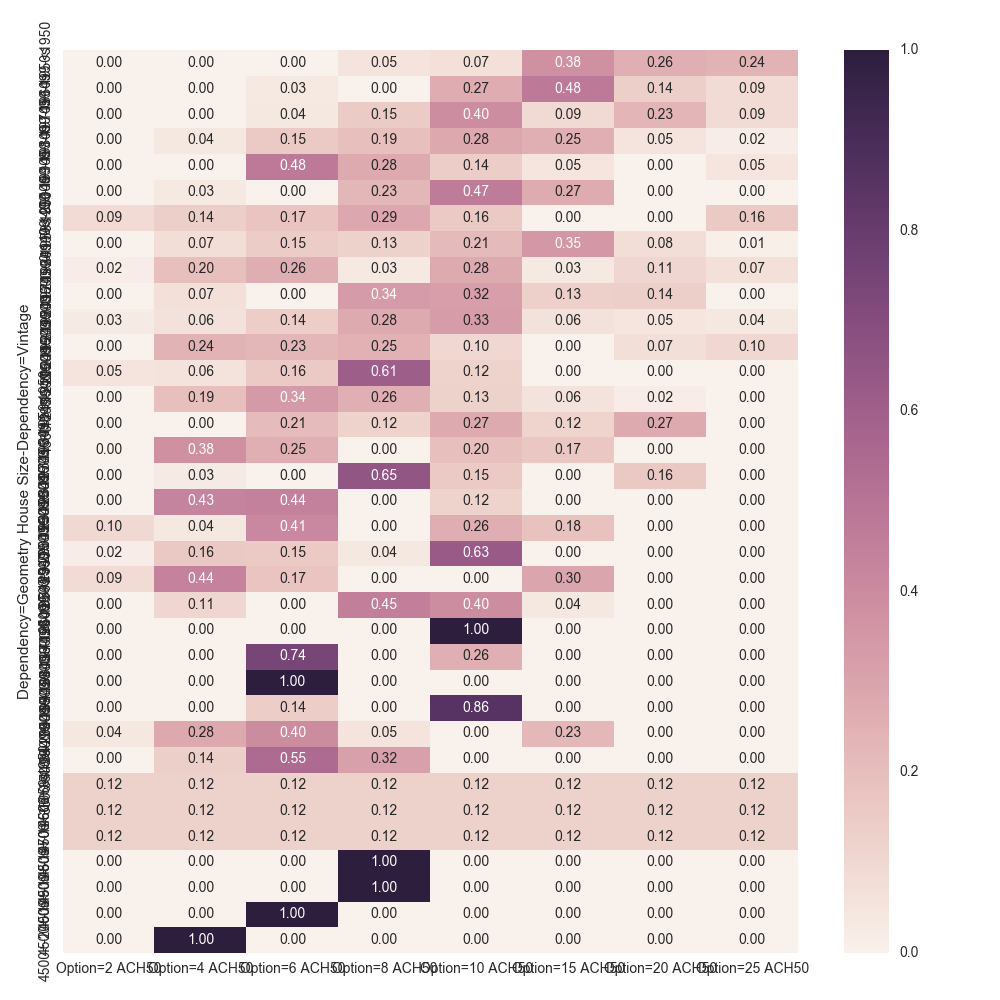
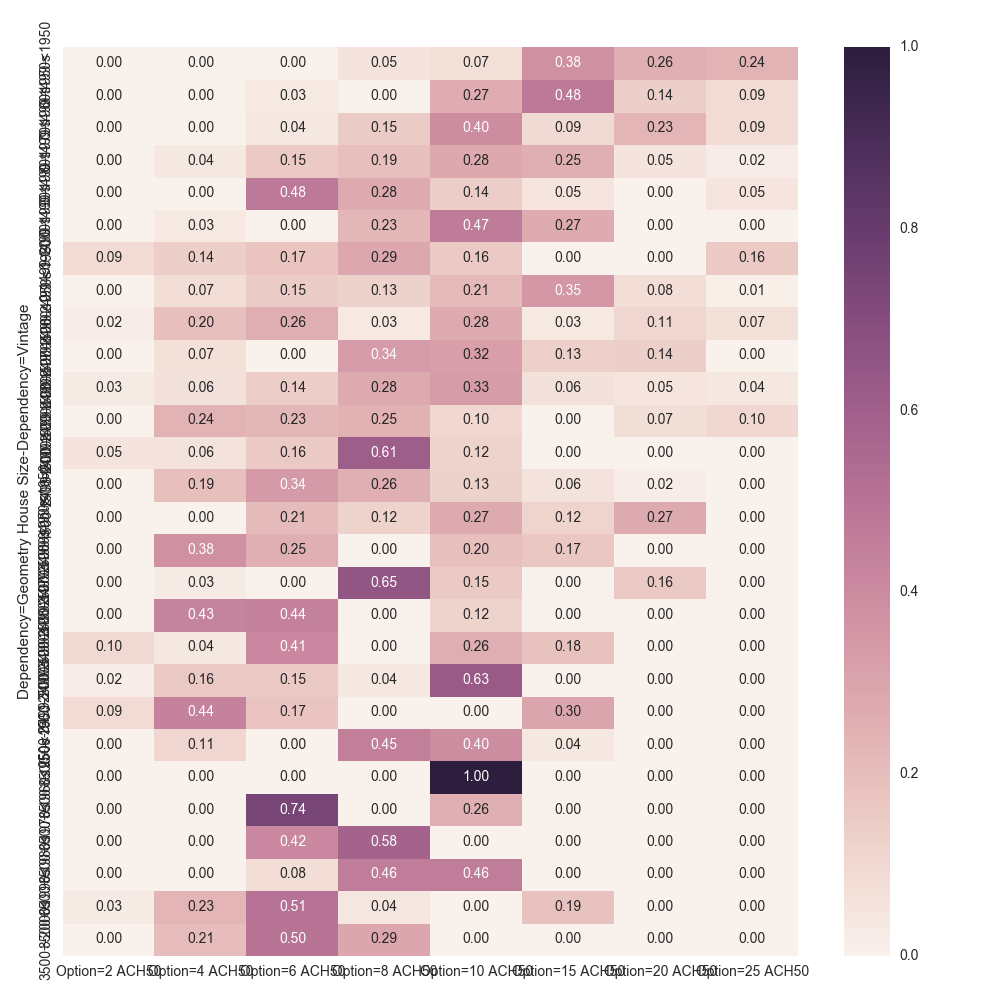
Removing 4500+ house size bin and removing 3+ story bin.

diff --git a/data/rbsa/main.py b/data/rbsa/main.py
@@ -430,7 +430,7 @@ class Create_DFs():
         df, cols = util.categories_to_columns(df, 'Dependency=Stories')
         df = df.groupby(['Dependency=Vintage', 'Dependency=Geometry House Size', 'Dependency=Geometry Foundation Type'])
         missing_groups = []
-        for group in itertools.product(*[['<1950', '1950s', '1960s', '1970s', '1980s', '1990s', '2000s'], ['0-1499', '1500-2499', '2500-3499', '3500-4499', '4500+'], ['Crawl', 'Heated Basement', 'Slab', 'Unheated Basement']]):
+        for group in itertools.product(*[['<1950', '1950s', '1960s', '1970s', '1980s', '1990s', '2000s'], ['0-1499', '1500-2499', '2500-3499', '3500+'], ['Crawl', 'Heated Basement', 'Slab', 'Unheated Basement']]):
             if not group in list(df.groups):
                 missing_groups.append(dict(zip(['Dependency=Vintage', 'Dependency=Geometry House Size', 'Dependency=Geometry Foundation Type'], group)))          
         count = df.agg(['count']).ix[:, 0]
@@ -829,7 +829,7 @@ class Create_DFs():
         df, cols = util.categories_to_columns(df, 'inf')
         df = df.groupby(['Dependency=Vintage', 'Dependency=Geometry House Size'])
         missing_groups = []
-        for group in itertools.product(*[['<1950', '1950s', '1960s', '1970s', '1980s', '1990s', '2000s'], ['0-1499', '1500-2499', '2500-3499', '3500-4499', '4500+']]):
+        for group in itertools.product(*[['<1950', '1950s', '1960s', '1970s', '1980s', '1990s', '2000s'], ['0-1499', '1500-2499', '2500-3499', '3500+']]):
             if not group in list(df.groups):
                 missing_groups.append(dict(zip(['Dependency=Vintage', 'Dependency=Geometry House Size'], group)))         
         count = df.agg(['count']).ix[:, 0]
@@ -1059,6 +1059,115 @@ class Create_DFs():
         df = df.sort_values(by=['Dependency=Geometry Foundation Type', 'Dependency=Vintage']).set_index(['Dependency=Geometry Foundation Type', 'Dependency=Vintage'])
         return df
     
+    def ducts_analysis(self):
+        df = util.create_dataframe(self.session, rdb)
+        df = util.assign_climate_zones(df)
+        df = util.assign_state(df)
+        df = util.assign_location(df)        
+        df = util.assign_vintage(df)
+        
+        sfductsRval = {'R0': 0,
+                       'R2-R4': 3,
+                       'R7-R11': 9,
+                       'R4 Flex': 4,
+                       'R6 Flex': 6,
+                       'R8 Flex': 8,
+                       'R0 Metal; R4 Flex': 2,
+                       'R0 Metal; R6 Flex': 3,
+                       'R0 Metal; R8 Flex': 4,
+                       'R2-R4 Metal; R4 Flex': 3.5,
+                       'R2-R4 Metal; R6 Flex': 4.5,
+                       'R2-R4 Metal; R8 Flex': 5.5,
+                       'R7-R11 Metal; R4 Flex': 6.5,
+                       'R7-R11 Metal; R6 Flex': 7.5,
+                       'R7-R11 Metal; R8 Flex': 8.5,
+                       '1" Ductboard': 4,
+                       '2" Ductboard': 8,
+                       '1" Ductboard; R4 Flex': 4,
+                       '1" Ductboard; R6 Flex': 5,
+                       '1" Ductboard; R8 Flex': 6,
+                       '2" Ductboard; R4 Flex': 6,
+                       '2" Ductboard; R6 Flex': 7}
+    
+        def ductrval(sfducts):
+            if len(sfducts) == 0:
+                return np.nan
+            for ducts in sfducts:
+                if ducts.ductinsulationtype:
+                    return sfductsRval[ducts.ductinsulationtype]
+                else:
+                    return np.nan
+                    
+        def ductrvalbin(rval):
+            if rval < 2:
+                return 'Very low'
+            elif rval >= 2 and rval < 4:
+                return 'Low'
+            elif rval >= 4 and rval < 6:
+                return 'Medium'
+            elif rval >= 6 and rval < 8:
+                return 'High'
+            elif rval >= 8 and rval:
+                return 'Very high'                
+                    
+        sfductsincond = {0: 'None',
+                         25: 'Partial',
+                         50: 'Partial',
+                         75: 'Partial',
+                         100: 'All'}
+    
+        def ductincond(sfducts):
+            if len(sfducts) == 0:
+                return np.nan
+            for ducts in sfducts:
+                if ducts.ductsinconditioned:
+                    return sfductsincond[ducts.ductsinconditioned]
+                else:
+                    return np.nan                    
+                    
+        def ductleak(sfducttesting_dbase):
+            if len(sfducttesting_dbase) == 0:
+                return np.nan
+            for ducts in sfducttesting_dbase:
+                if ducts.slfhalfplen and ducts.rlfhalfplen:
+                    return ducts.slfhalfplen + ducts.rlfhalfplen
+                else:
+                    return np.nan
+                    
+        df['ductrval'] = df.apply(lambda x: ductrval(x.object.sfducts), axis=1)
+        df['ductrvalbin'] = df.apply(lambda x: ductrvalbin(x.ductrval), axis=1)
+        df['ductincond'] = df.apply(lambda x: ductincond(x.object.sfducts), axis=1)
+        df['ductleak'] = df.apply(lambda x: ductleak(x.object.sfducttestingdbase), axis=1)
+        
+        df_duct_r_val = df.dropna(subset=['ductrval'])
+        df_duct_leakage_test_performed = df_duct_r_val.dropna(subset=['ductleak'])
+        ax = sns.kdeplot(df_duct_r_val['ductrval'], label='all insulation values')
+        ax = sns.kdeplot(df_duct_leakage_test_performed['ductrval'], label='insulation values with leakage test')
+        ax.set(xlabel='r-value', ylabel='density')
+        plt.legend()
+        plt.savefig('test1.png')
+        plt.close()
+        
+        ax = sns.kdeplot(df_duct_leakage_test_performed[df_duct_leakage_test_performed['ductrvalbin']=='Very low']['ductleak'], label='Very low ins')
+        ax = sns.kdeplot(df_duct_leakage_test_performed[df_duct_leakage_test_performed['ductrvalbin']=='Low']['ductleak'], label='Low ins')
+        ax = sns.kdeplot(df_duct_leakage_test_performed[df_duct_leakage_test_performed['ductrvalbin']=='Medium']['ductleak'], label='Medium ins')
+        ax = sns.kdeplot(df_duct_leakage_test_performed[df_duct_leakage_test_performed['ductrvalbin']=='High']['ductleak'], label='High ins')
+        ax = sns.kdeplot(df_duct_leakage_test_performed[df_duct_leakage_test_performed['ductrvalbin']=='Very high']['ductleak'], label='Very high ins')
+        ax.set(xlabel='leak frac', ylabel='density')
+        plt.legend()
+        plt.savefig('test2.png')
+        plt.close()
+        
+        ax = sns.regplot(x=df_duct_leakage_test_performed['ductrval'], y=df_duct_leakage_test_performed['ductleak'], color="g")
+        ax.set(xlabel='r-val', ylabel='leak frac')
+        plt.legend()
+        plt.savefig('test3.png')
+        plt.close()              
+        
+        df[['Dependency=Location Region', 'Dependency=Vintage', 'ductrval', 'ductrvalbin', 'ductincond', 'ductleak']].to_csv(os.path.join(datafiles_dir, 'Ducts Analysis.tsv'), sep='\t')
+        
+        sys.exit()
+    
     def water_heater(self):
         df = util.create_dataframe(self.session, rdb)
         df = util.assign_heating_fuel(df)
@@ -1241,7 +1350,7 @@ def to_figure(df, file):
     ax = sns.heatmap(df, annot=True, annot_kws={'size': 10}, fmt='.2f')
     plt.savefig(file)
     plt.close()
-
+    
 def add_option_prefix(df):
     for col in df.columns:
         if not 'Dependency=' in col and not 'Count' in col and not 'Weight' in col and not 'group' in col:
@@ -1258,8 +1367,8 @@ if __name__ == '__main__':
     
     dfs = Create_DFs('rbsa.sqlite')
     
-    #for category in ['Location Region', 'Vintage', 'Heating Fuel', 'Geometry Foundation Type', 'Geometry House Size', 'Geometry Stories', 'Insulation Unfinished Attic', 'Insulation Wall', 'Heating Setpoint', 'Cooling Setpoint', 'Insulation Slab', 'Insulation Crawlspace', 'Insulation Unfinished Basement', 'Insulation Finished Basement', 'Insulation Interzonal Floor', 'Windows', 'Infiltration', 'HVAC System Combined', 'HVAC System Heating', 'HVAC System Cooling', 'HVAC System Is Combined', 'Ducts', 'Water Heater', 'Lighting', 'Cooking Range', 'Clothes Dryer', 'Insulation Wall H1', 'Insulation Wall H2', 'Insulation Wall H3', 'Insulation Unfinished Attic H1', 'Insulation Unfinished Attic H2', 'Insulation Unfinished Attic H3', 'Windows H1', 'Windows H2', 'Windows H3']:
-    for category in ['Electricity Consumption Location', 'Electricity Consumption Vintage', 'Electricity Consumption Location Vintage', 'Natural Gas Consumption Location', 'Natural Gas Consumption Vintage', 'Natural Gas Consumption Location Vintage']:
+    # for category in ['Location Region', 'Vintage', 'Heating Fuel', 'Geometry Foundation Type', 'Geometry House Size', 'Geometry Stories', 'Insulation Unfinished Attic', 'Insulation Wall', 'Heating Setpoint', 'Cooling Setpoint', 'Insulation Slab', 'Insulation Crawlspace', 'Insulation Unfinished Basement', 'Insulation Finished Basement', 'Insulation Interzonal Floor', 'Windows', 'Infiltration', 'HVAC System Combined', 'HVAC System Heating', 'HVAC System Cooling', 'HVAC System Is Combined', 'Ducts', 'Water Heater', 'Lighting', 'Cooking Range', 'Clothes Dryer', 'Insulation Wall H1', 'Insulation Wall H2', 'Insulation Wall H3', 'Insulation Unfinished Attic H1', 'Insulation Unfinished Attic H2', 'Insulation Unfinished Attic H3', 'Windows H1', 'Windows H2', 'Windows H3']:
+    for category in ['Geometry Stories', 'Geometry House Size']:
         print category
         method = getattr(dfs, category.lower().replace(' ', '_'))
         df = method()

diff --git a/data/rbsa/util.py b/data/rbsa/util.py
@@ -247,14 +247,12 @@ def assign_size(df):
                 return '1500-2499'
             elif size >= 2500 and size < 3500:
                 return '2500-3499'
-            elif size >= 3500 and size < 4500:
-                return '3500-4499'
             else:
-                assert size >= 4500
-                return '4500+'
+                assert size >= 3500
+                return '3500+'
         
     df['Dependency=Geometry House Size'] = df.apply(lambda x: size(x.object.sfmasterhousegeometry), axis=1)
-    df = df.dropna(subset=['Dependency=Geometry House Size'])    
+    df = df.dropna(subset=['Dependency=Geometry House Size'])
 
     return df
 
@@ -263,8 +261,8 @@ def assign_stories(df):
     storieskey = {'1': '1',
                   '1.5': '2',
                   '2': '2',
-                  '2.5': '3+',
-                  '3+': '3+'}
+                  '2.5': '2+',
+                  '3+': '2+'}
         
     df['Dependency=Stories'] = df.apply(lambda x: storieskey[x.object.sfmasterhousegeometry.sffloors], axis=1)
     df = df.dropna(subset=['Dependency=Stories'])
